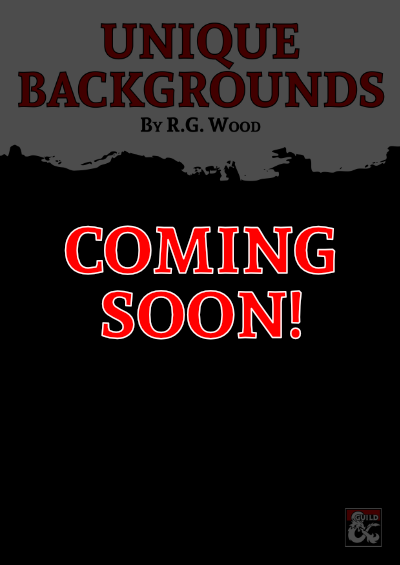
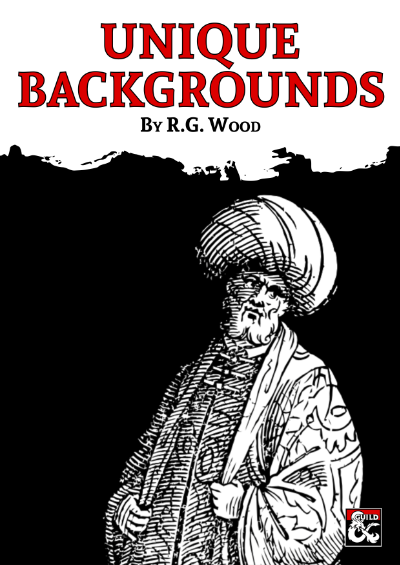
Release "Unique Backgrounds"

diff --git a/posts/products/unique-backgrounds.html b/posts/products/unique-backgrounds.html
@@ -3,6 +3,7 @@ title: Unique Backgrounds
 collection: products
 date: 2020-02-01
 layout: product.hbs
+redirectTo: "https://www.dmsguild.com/product/305970/Unique-Backgrounds?affiliate_id=1765521"
 image: images/covers/unique-backgrounds.png
 publish: draft
 ---
